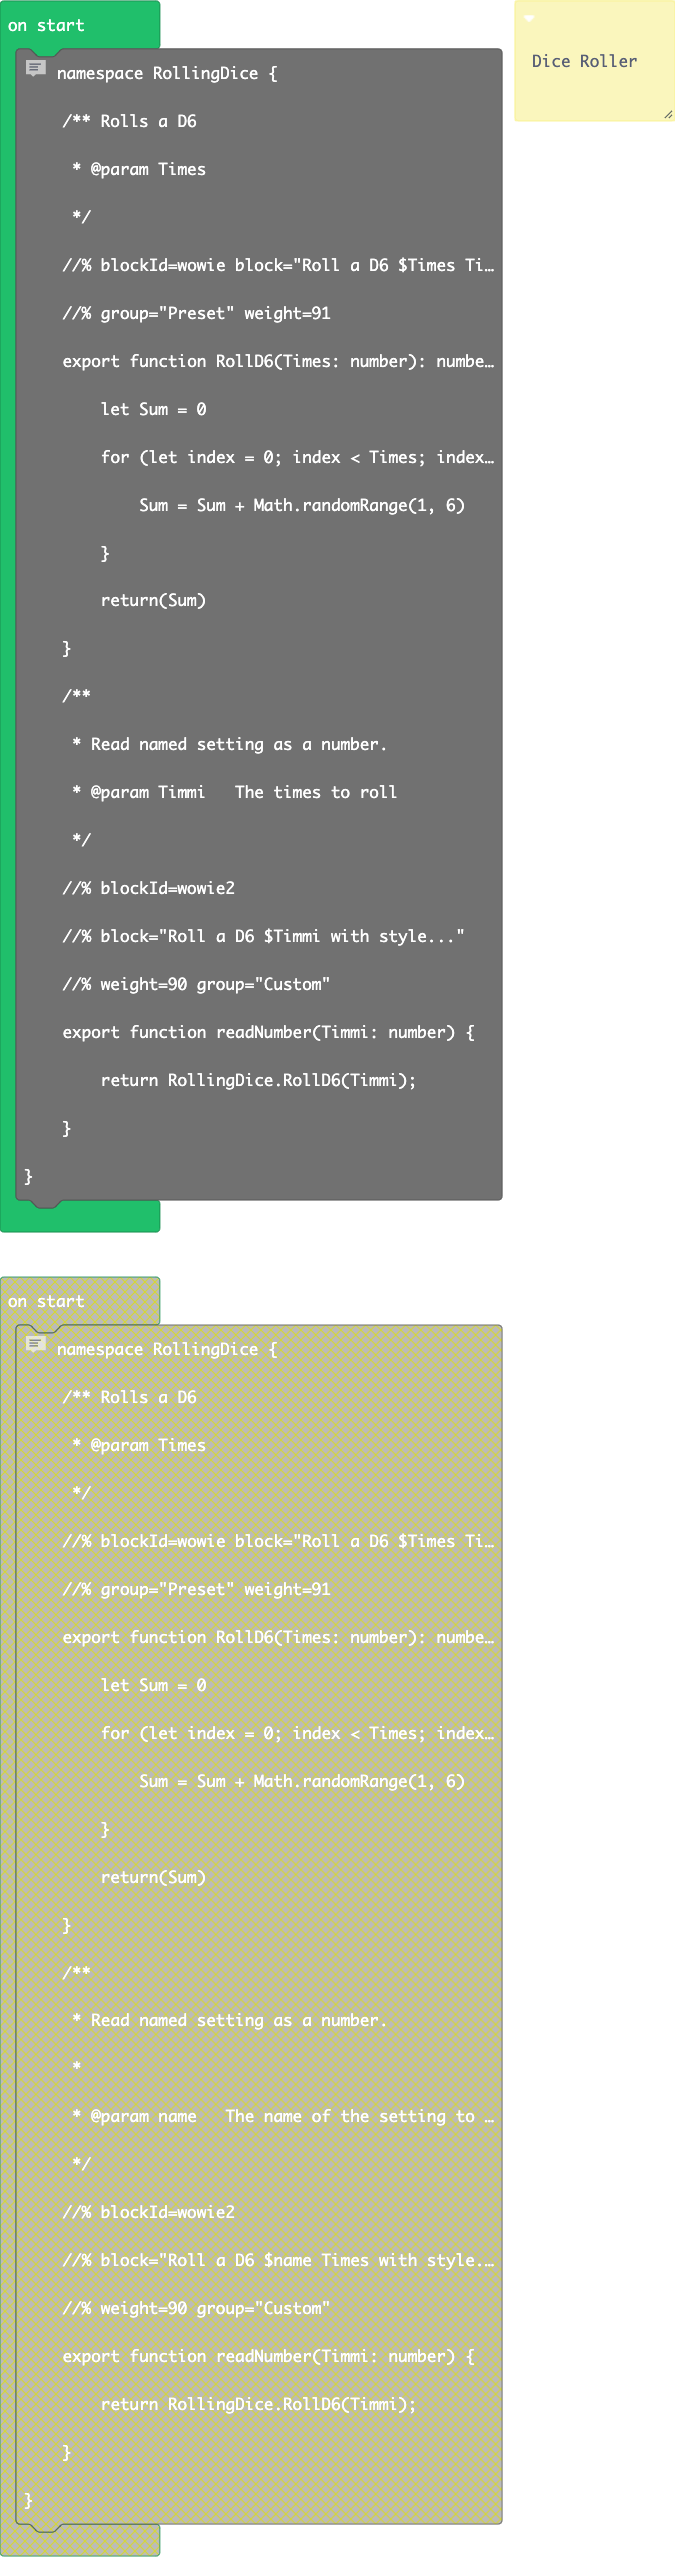
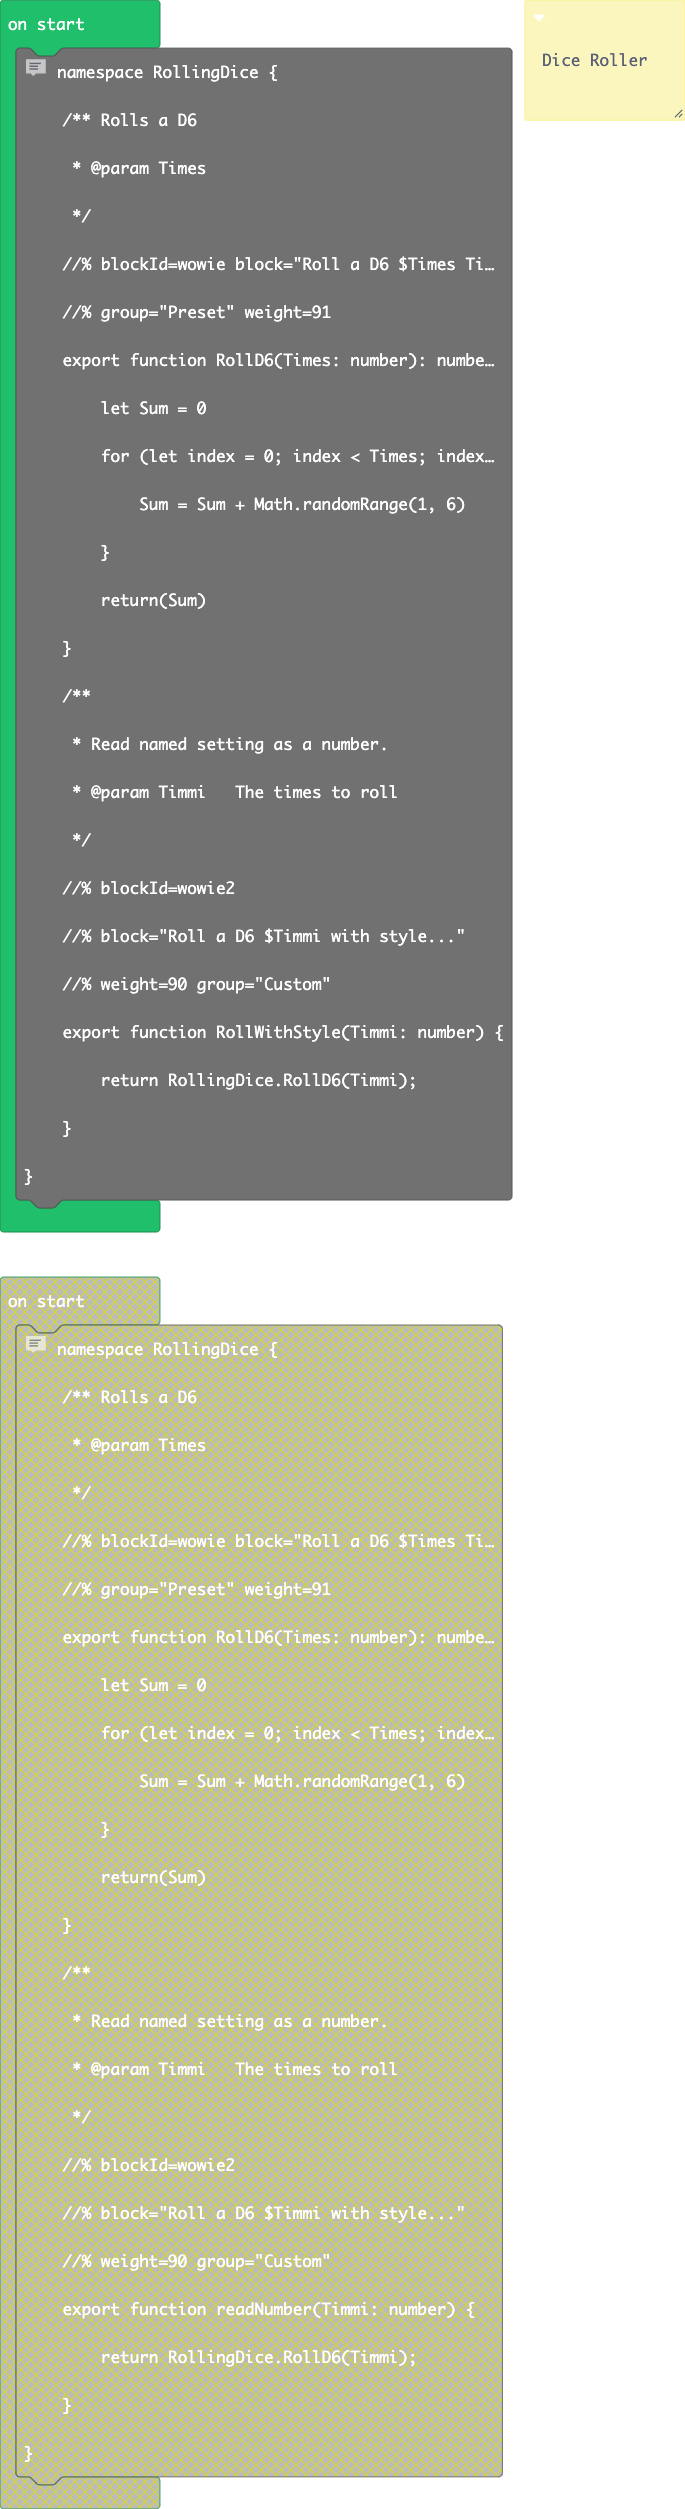
Update main.blocks, main.ts

diff --git a/main.ts b/main.ts
@@ -1,22 +1,17 @@
-controller.left.onEvent(ControllerButtonEvent.Pressed, function () {
-    blockSettings.writeString("hello", "left")
-})
-controller.down.onEvent(ControllerButtonEvent.Pressed, function () {
-    blockSettings.writeString("hello", "down")
-})
-controller.A.onEvent(ControllerButtonEvent.Pressed, function () {
-    game.splash(blockSettings.readString("hello"))
-})
-controller.right.onEvent(ControllerButtonEvent.Pressed, function () {
-    blockSettings.writeString("hello", "right")
-})
-controller.up.onEvent(ControllerButtonEvent.Pressed, function () {
-    blockSettings.writeString("hello", "up")
-})
+enum Dice {
+    D2 = 2,
+    D4 = 4,
+    D6 = 6,
+    D8 = 8,
+    D10 = 10,
+    D12 = 12,
+    D20 = 20,
+    D100 = 100
+}
 /**
  * Dice Roller
  */
-//% color="#ad4800" icon="\u2684" block="Dice"
+//%color="#ad4800" icon="\u2684" block="Dice" weight=42
 namespace RollingDice {
     /** Rolls a D6
      * @param Times
@@ -32,12 +27,16 @@ namespace RollingDice {
     }
     /**
      * Read named setting as a number.
-     * @param Timmi   The times to roll
+     * @param Times   The times to roll
      */
     //% blockId=wowie2
-    //% block="Roll a D6 $Timmi with style..."
+    //% block="Roll a D6 $Times with a $Sides"
     //% weight=90 group="Custom"
-    export function RollWithStyle(Timmi: number) {
-        return RollingDice.RollD6(Timmi);
+    export function RollWithStyle(Times: number, Sides: Dice): number {
+        let Sum = 0
+        for (let index = 0; index < Times; index++) {
+            Sum = Sum + Math.randomRange(1, Sides)
+        }
+        return (Sum)
     }
 }
